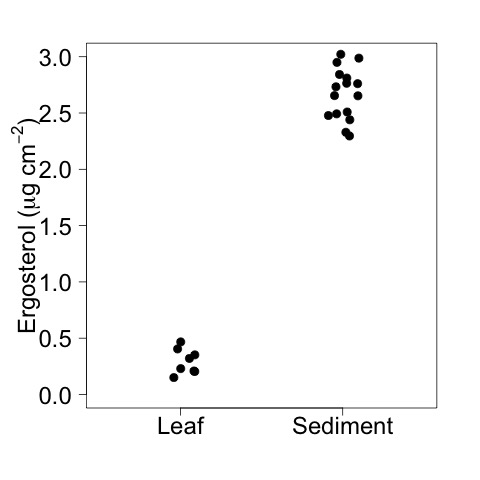
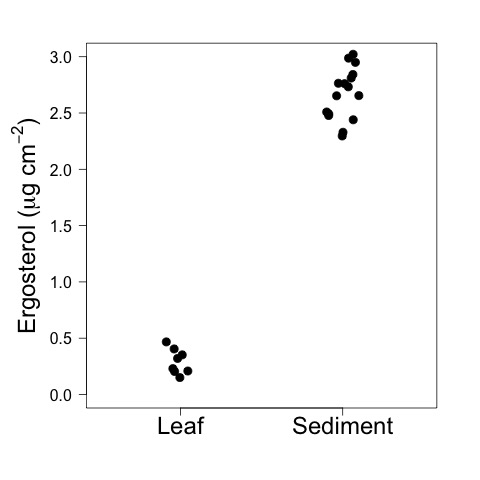
plots

diff --git a/lab_notebook/analysis/CPOM_Flux_Ergo_Analysis.md b/lab_notebook/analysis/CPOM_Flux_Ergo_Analysis.md
@@ -64,7 +64,7 @@ Min. 1st Qu.  Median    Mean 3rd Qu.    Max.
     # points plot
     par(las = 1, mar=c(5, 6, 3, 3))
     plot(ergo_per_OM ~ jitter(as.numeric(samp), 0.5), data = ergo, xlim = c(0.5, 2.5), ylim = c(0, 200), ylab = expression(paste("Ergosterol (", mu, "g (g AFDM)"^{-1}, ")")), xlab = " ", axes = F, cex = 1.5, cex.lab = 1.5, pch = 19)
-    axis(2, cex.axis = 1.5)
+    axis(2, cex.axis = 1.0)
     axis(1, at = c(1, 2), c("Leaf", "Sediment"), cex.axis = 1.5)
     box()
     dev.copy(jpeg, "./output/plots/ergo_per_OM_by_samp.jpg")
@@ -111,7 +111,7 @@ Min. 1st Qu.  Median    Mean 3rd Qu.    Max.
     # points plot
     par(las = 1, mar=c(5, 6, 3, 3))
     plot(ergo.area ~ jitter(as.numeric(samp), 0.5), data = ergo, xlim = c(0.5, 2.5), ylim = c(0, 3), ylab = expression(paste("Ergosterol (", mu, "g cm"^{-2}, ")")), xlab = " ", axes = F, cex = 1.5, cex.lab = 1.5, pch = 19)
-    axis(2, cex.axis = 1.5)
+    axis(2, cex.axis = 1.0)
     axis(1, at = c(1, 2), c("Leaf", "Sediment"), cex.axis = 1.5)
     box()
     dev.copy(jpeg, "./output/plots/ergo_per_cm2.jpg")
